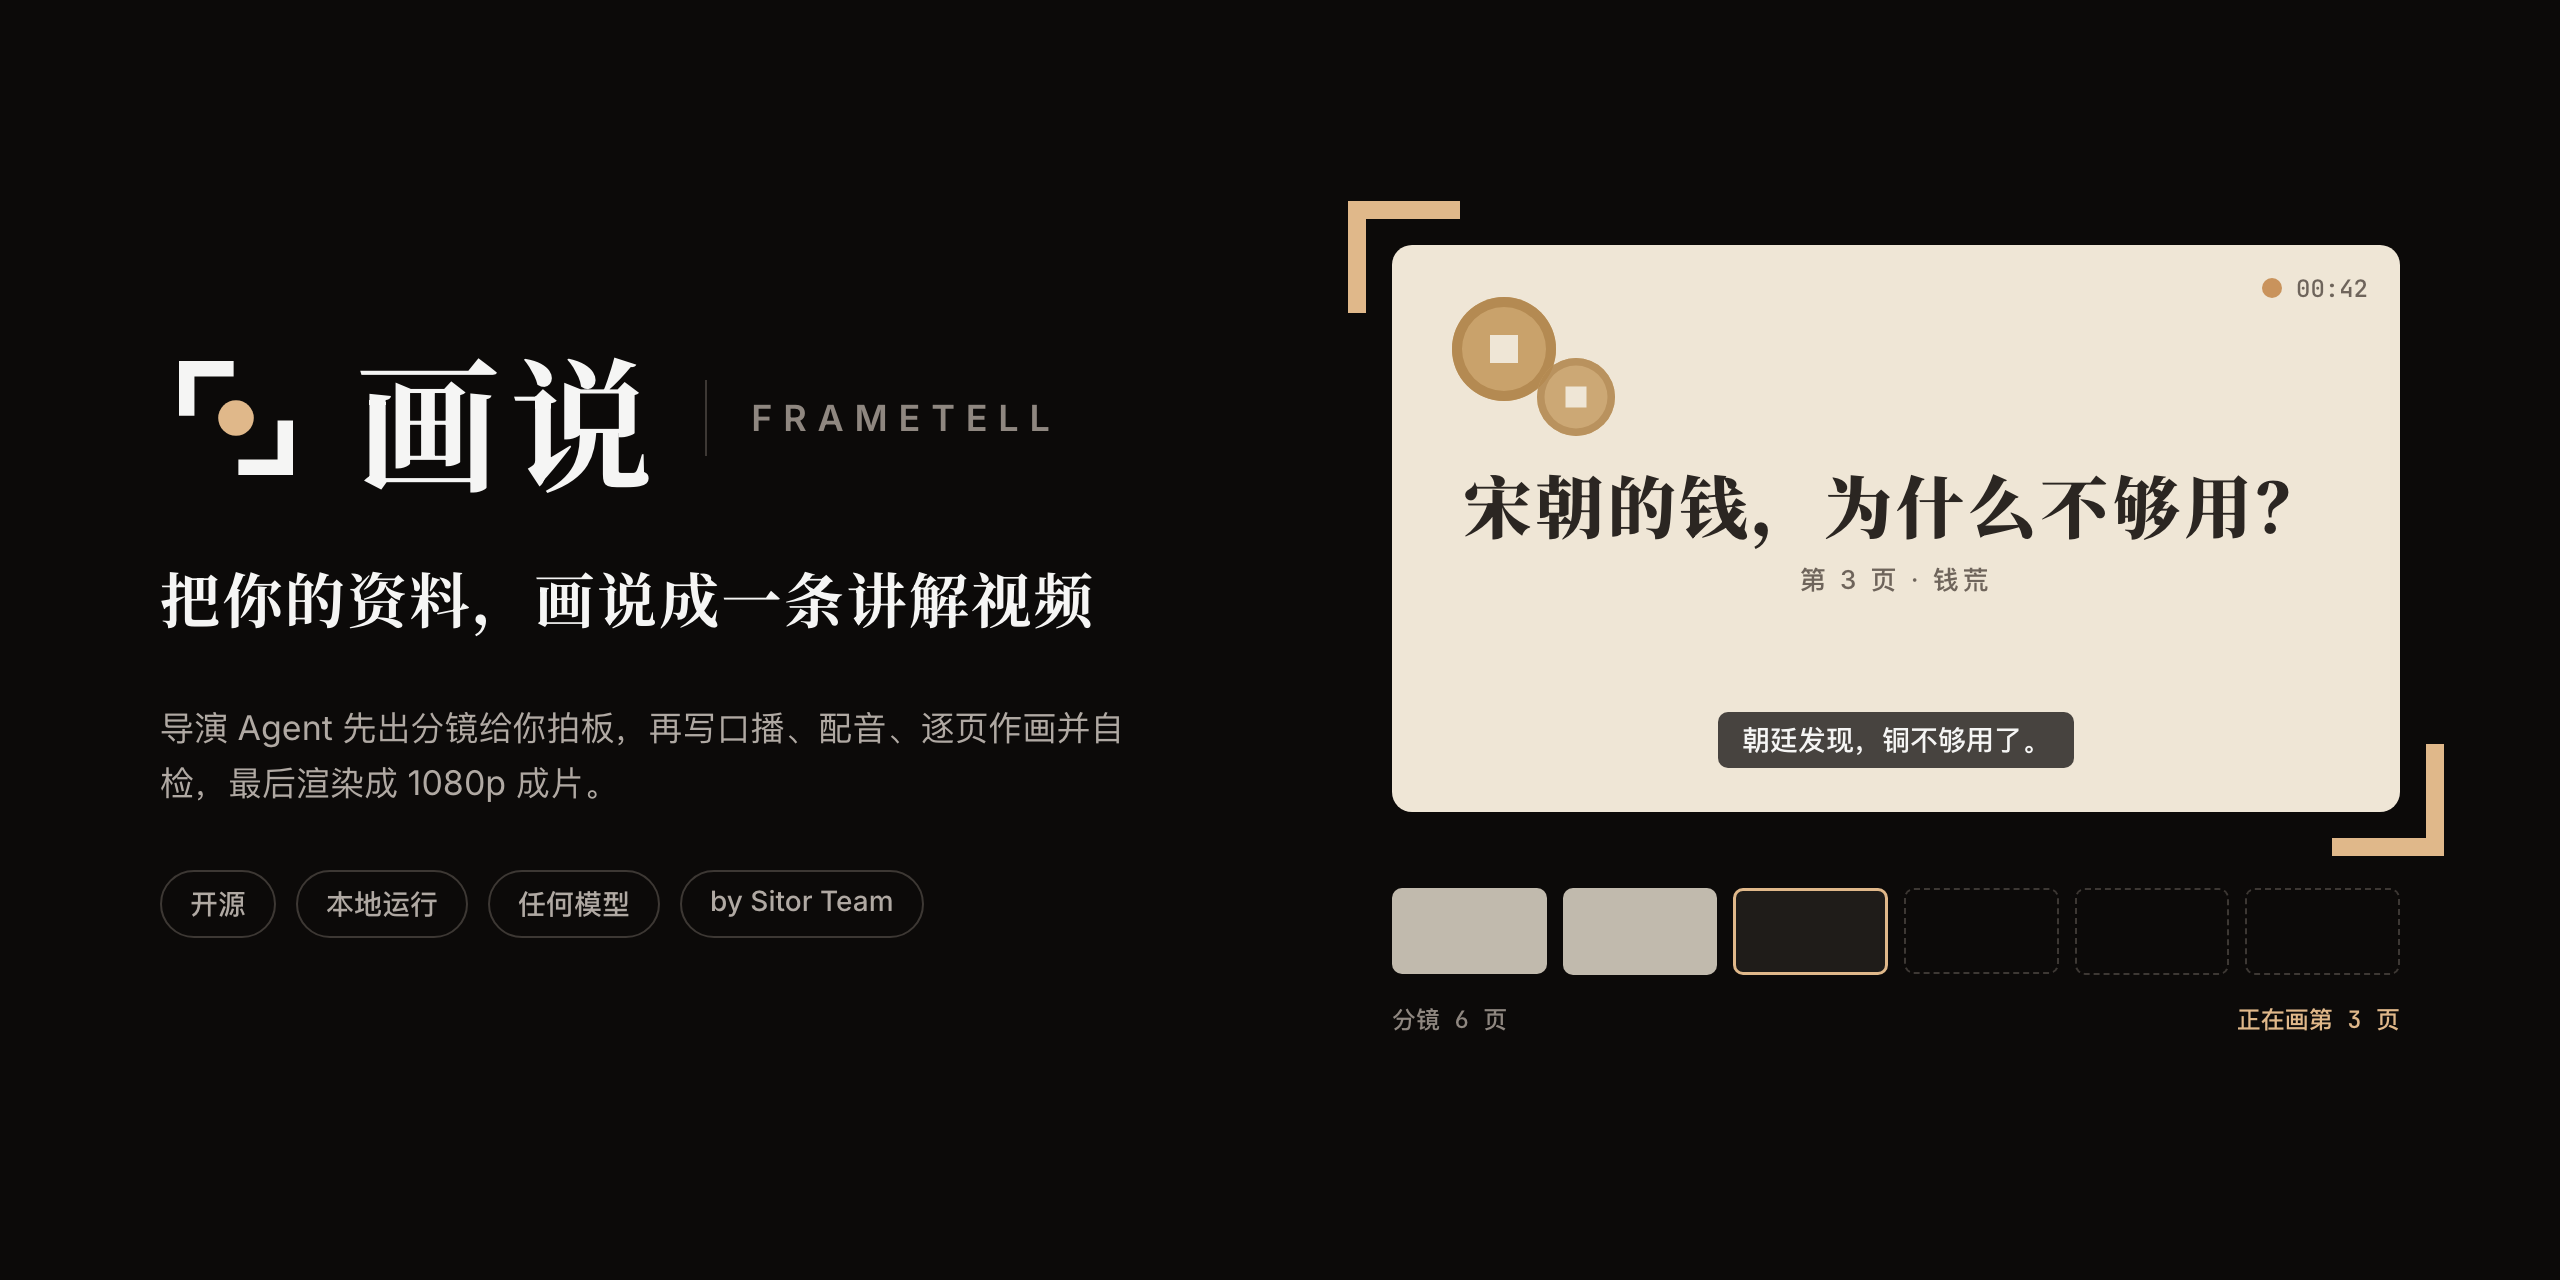
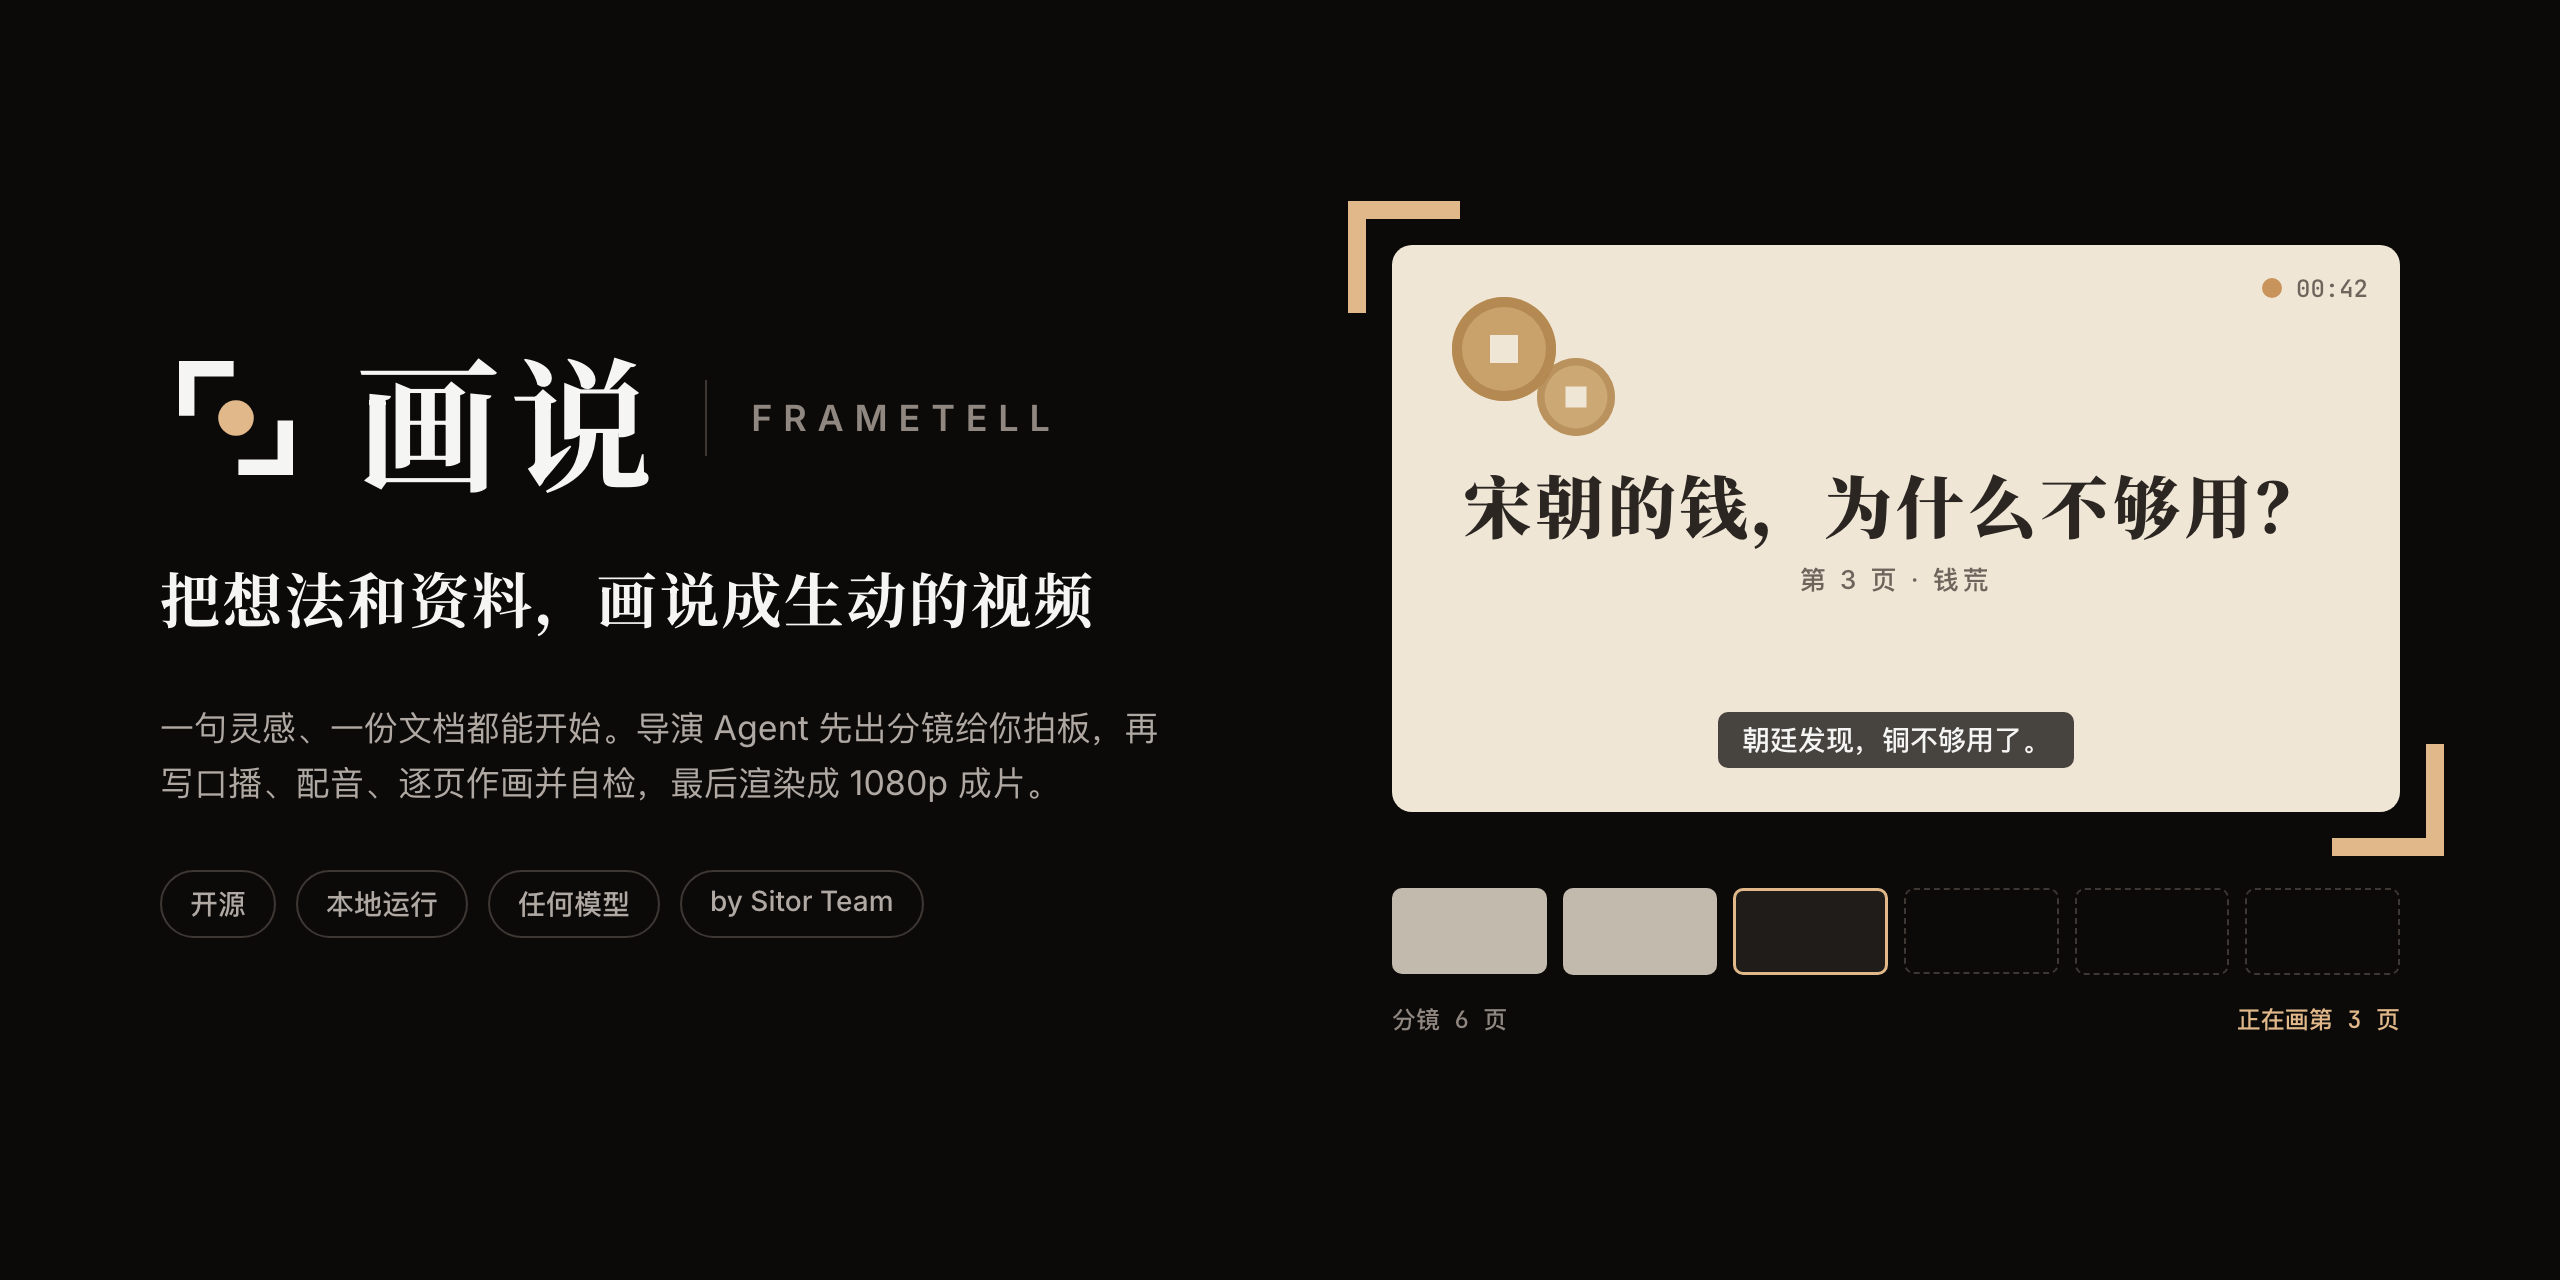
docs: an idea is enough to start, not only material
The READMEs, banners and package descriptions said Frametell turns documents
into videos; one sentence of an idea is enough too, as the uncertainty film
shows.

Changed region(s): [[0.0625, 0.5312, 0.4688, 0.625], [0.0938, 0.4375, 0.375, 0.5]]

diff --git a/docs/brand/banner.html b/docs/brand/banner.html
@@ -65,8 +65,8 @@ html, body { margin: 0; width: 1280px; height: 640px; overflow: hidden; backgrou
       <svg viewBox="0 0 64 64"><path style="fill:var(--ink)" d="M8 8H31V14.5H14.5V31H8Z"/><path style="fill:var(--ink)" d="M56 56H33V49.5H49.5V33H56Z"/><circle style="fill:var(--accent)" cx="32" cy="32" r="7.5"/></svg>
       <span class="cn">画说</span><span class="en">FRAMETELL</span>
     </div>
-    <p class="tag" data-zh="把你的资料，画说成一条讲解视频" data-en="Turn what you know into an explainer video."></p>
-    <p class="sub" data-zh="导演 Agent 先出分镜给你拍板，再写口播、配音、逐页作画并自检，最后渲染成 1080p 成片。" data-en="A director agent drafts the storyboard for your sign-off, then writes the narration, voices it, draws every page, checks its own work and renders a 1080p video."></p>
+    <p class="tag" data-zh="把想法和资料，画说成生动的视频" data-en="Turn your ideas into vivid explainer videos."></p>
+    <p class="sub" data-zh="一句灵感、一份文档都能开始。导演 Agent 先出分镜给你拍板，再写口播、配音、逐页作画并自检，最后渲染成 1080p 成片。" data-en="Start from one sentence or a stack of notes. A director agent drafts the storyboard for your sign-off, then writes, voices and draws every page into a 1080p video."></p>
     <div class="chips" data-zh="开源|本地运行|任何模型|by Sitor Team" data-en="Open source|Runs locally|Any model|by Sitor Team"></div>
   </div>
   <div class="right">

diff --git a/README.md b/README.md
@@ -1,7 +1,7 @@
 <p align="center">
   <picture>
     <source media="(prefers-color-scheme: dark)" srcset="docs/brand/readme/banner-en-dark.png">
-    <img alt="画说 Frametell: turn what you know into an explainer video" src="docs/brand/readme/banner-en-light.png" width="100%">
+    <img alt="画说 Frametell: turn your ideas and material into vivid explainer videos" src="docs/brand/readme/banner-en-light.png" width="100%">
   </picture>
 </p>
 
@@ -9,7 +9,7 @@
   <b>English</b> · <a href="README.zh-CN.md">简体中文</a>
 </p>
 
-**Frametell** (画说, *huà shuō*) turns your documents, PDFs, slides and images into an explainer video with pages that move. A director agent first drafts a storyboard for you to sign off on. Then it writes the narration, voices it, draws each page and checks its own work. You get a 1080p video, with subtitles and publishing notes.
+**Frametell** (画说, *huà shuō*) turns your ideas and your material into vivid explainer videos with pages that move. One sentence is enough to start ("explain the uncertainty principle"), or you can hand it notes, documents, PDFs, slides and images. A director agent first drafts a storyboard for you to sign off on. Then it writes the narration, voices it, draws each page and checks its own work. You get a 1080p video, with subtitles and publishing notes.
 
 It's built for knowledge creators who explain history, science, technology, investing, psychology or books, and who'd rather tell the story than learn video editing.
 
@@ -39,8 +39,8 @@ Two films Frametell made end to end: storyboard, narration, voice, every page an
 
 ## How it works
 
-1. **Materials.** Drop in a document, PDF, slide deck, images or Markdown.
-2. **Storyboard.** The director breaks your material into pages and story beats, and you approve or edit them.
+1. **Idea or material.** Type what you want to explain, as one sentence or a page of thoughts, or drop in a document, PDF, slide deck, images or Markdown. Either is enough, and you can give it both.
+2. **Storyboard.** The director turns your idea or material into pages and story beats, and you approve or edit them.
 3. **Narration and voice.** It writes the script and voices it with Volcengine TTS or ElevenLabs.
 4. **Pages.** It draws every page in the style you chose and checks each one with lint and screenshots.
 5. **Film.** It runs a final check on the full video, then renders a 1080p MP4 with subtitles.

diff --git a/README.zh-CN.md b/README.zh-CN.md
@@ -1,7 +1,7 @@
 <p align="center">
   <picture>
     <source media="(prefers-color-scheme: dark)" srcset="docs/brand/readme/banner-zh-dark.png">
-    <img alt="画说 Frametell：把你的资料，画说成一条讲解视频" src="docs/brand/readme/banner-zh-light.png" width="100%">
+    <img alt="画说 Frametell：把想法和资料，画说成生动的视频" src="docs/brand/readme/banner-zh-light.png" width="100%">
   </picture>
 </p>
 
@@ -9,7 +9,7 @@
   <a href="README.md">English</a> · <b>简体中文</b>
 </p>
 
-**画说**（Frametell）把文档、PDF、PPT 和图片变成一条画面会动的讲解视频。导演 Agent 先出分镜给你拍板，再写口播、配音、逐页作画并自检，最后渲染成 1080p 成片，附带字幕和发布信息。
+**画说**（Frametell）把你的想法和资料，变成画面会动、生动好看的讲解视频。一句灵感就能开始，比如「讲讲量子力学测不准原理」；也可以交给它笔记、文档、PDF、PPT 和图片。导演 Agent 先出分镜给你拍板，再写口播、配音、逐页作画并自检，最后渲染成 1080p 成片，附带字幕和发布信息。
 
 它是给知识创作者用的：讲历史、科学、技术、投资、心理学、读书的人。你只管把事情讲清楚，不用学剪辑。
 
@@ -39,8 +39,8 @@
 
 ## 怎么做出来的
 
-1. **资料**：交给它文档、PDF、PPT、图片或一段 Markdown。
-2. **分镜**：导演把资料拆成一页页、一个个拍点，你确认或修改。
+1. **想法或资料**：一句话、一段想法，或者交给它文档、PDF、PPT、图片、Markdown。有一样就够，也可以一起给。
+2. **分镜**：导演把你的想法或资料拆成一页页、一个个拍点，你确认或修改。
 3. **口播与配音**：写好讲稿，用火山 TTS 或 ElevenLabs 配音。
 4. **逐页画面**：按你选的风格画每一页，用 lint 和截图逐页自检。
 5. **成片**：全片检查后渲染 1080p MP4，带字幕。
